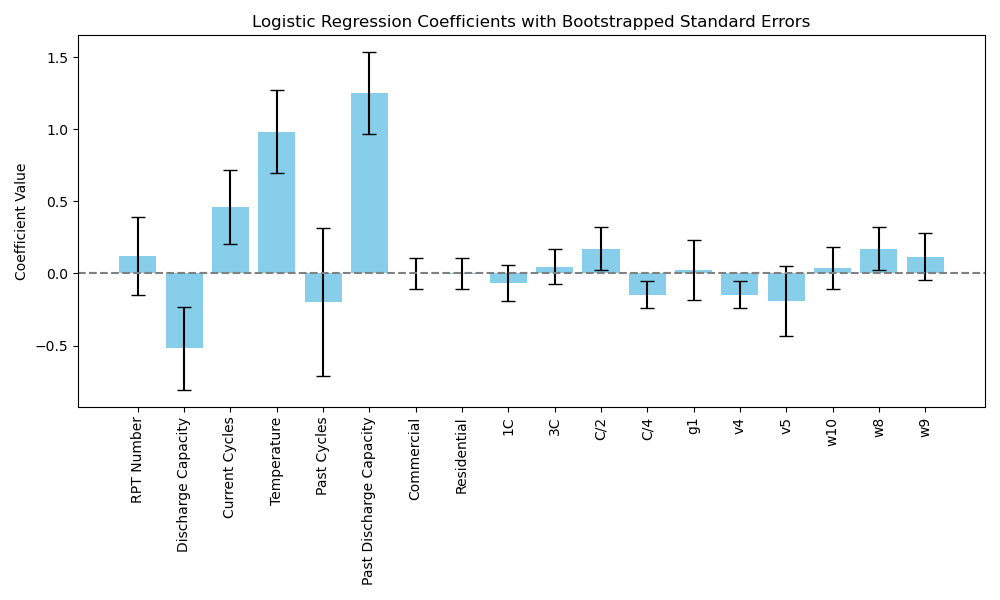
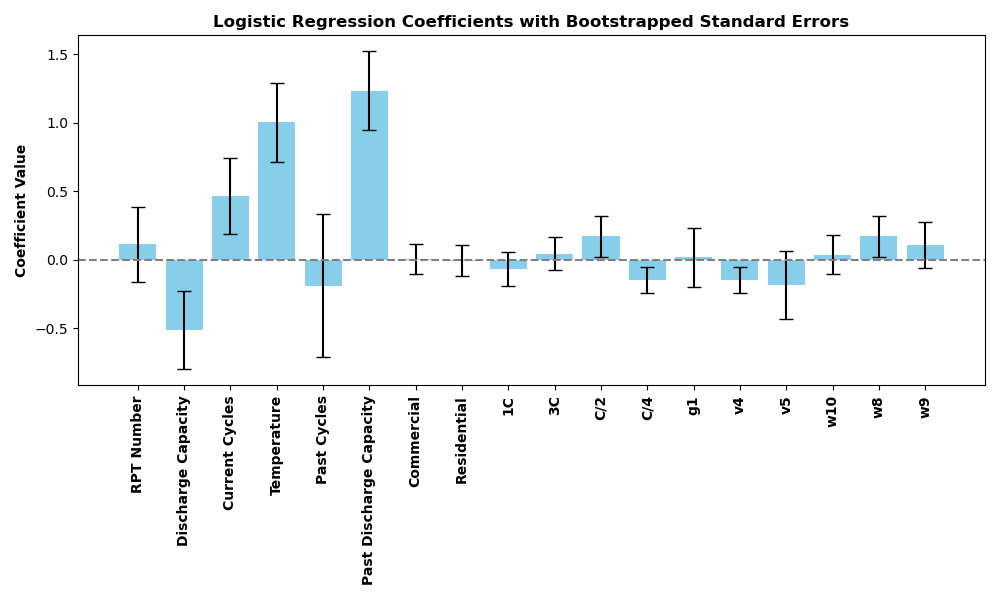
bolded

diff --git a/Scripts/Analysis Scripts/manualRemove.py b/Scripts/Analysis Scripts/manualRemove.py
@@ -102,9 +102,9 @@ for i in range(10):
     plt.figure(figsize=(10, 6))
     plt.bar(feature_names, coef_means, yerr=coef_stds, capsize=5, color='skyblue')
     plt.axhline(0, color='gray', linestyle='--')
-    plt.xticks(rotation= 90)
-    plt.title('Logistic Regression Coefficients with Bootstrapped Standard Errors')
-    plt.ylabel('Coefficient Value')
+    plt.xticks(rotation= 90, fontweight='bold')
+    plt.title('Logistic Regression Coefficients with Bootstrapped Standard Errors', fontweight='bold')
+    plt.ylabel('Coefficient Value', fontweight='bold')
     plt.tight_layout()
     name_bar = f"rise-battery-research/Output/Results/Bar Plot with std error bars for {varname}.png"
     plt.savefig(name_bar)
@@ -183,9 +183,9 @@ for k in range(10):
 # PLOT ACCURACIES - mean accuracy from 100 train/test splits, bars are standard deviation bars
 plt.figure(figsize=(12, 6))
 plt.bar(v, mean_accuracies, yerr=std_accuracies, capsize=5, color='skyblue')
-plt.xticks(rotation=45, ha='right')
-plt.ylabel("Accuracy")
-plt.title("Model Accuracy by Feature Removal (with Std Dev Error Bars)")
+plt.xticks(rotation=45, ha='right', fontweight='bold')
+plt.ylabel("Accuracy", fontweight='bold')
+plt.title("Model Accuracy by Feature Removal (with Std Dev Error Bars)", fontweight='bold')
 plt.tight_layout()
 plt.savefig("rise-battery-research/Output/Results/All_Model_Accuracies_with_Error_Bars.png")
 

diff --git a/Scripts/Analysis Scripts/randfor.py b/Scripts/Analysis Scripts/randfor.py
@@ -83,8 +83,8 @@ sorted_stds = std_importances[indices]
 # Plot with error bars
 plt.figure(figsize=(12,6))
 plt.bar(range(len(sorted_means)), sorted_means, yerr=sorted_stds, capsize=5, color='skyblue')
-plt.xticks(range(len(sorted_means)), sorted_features, rotation=90)
-plt.ylabel("Mean Feature Importance")
-plt.title("Random Forest Feature Importances with Standard Deviation")
+plt.xticks(range(len(sorted_means)), sorted_features, rotation=90, fontweight='bold')
+plt.ylabel("Mean Feature Importance", fontweight='bold')
+plt.title("Random Forest Feature Importances with Standard Deviation", fontweight='bold')
 plt.tight_layout()
 plt.savefig("rise-battery-research/Output/Results/Random Forest Feature Importances with STD.png")
